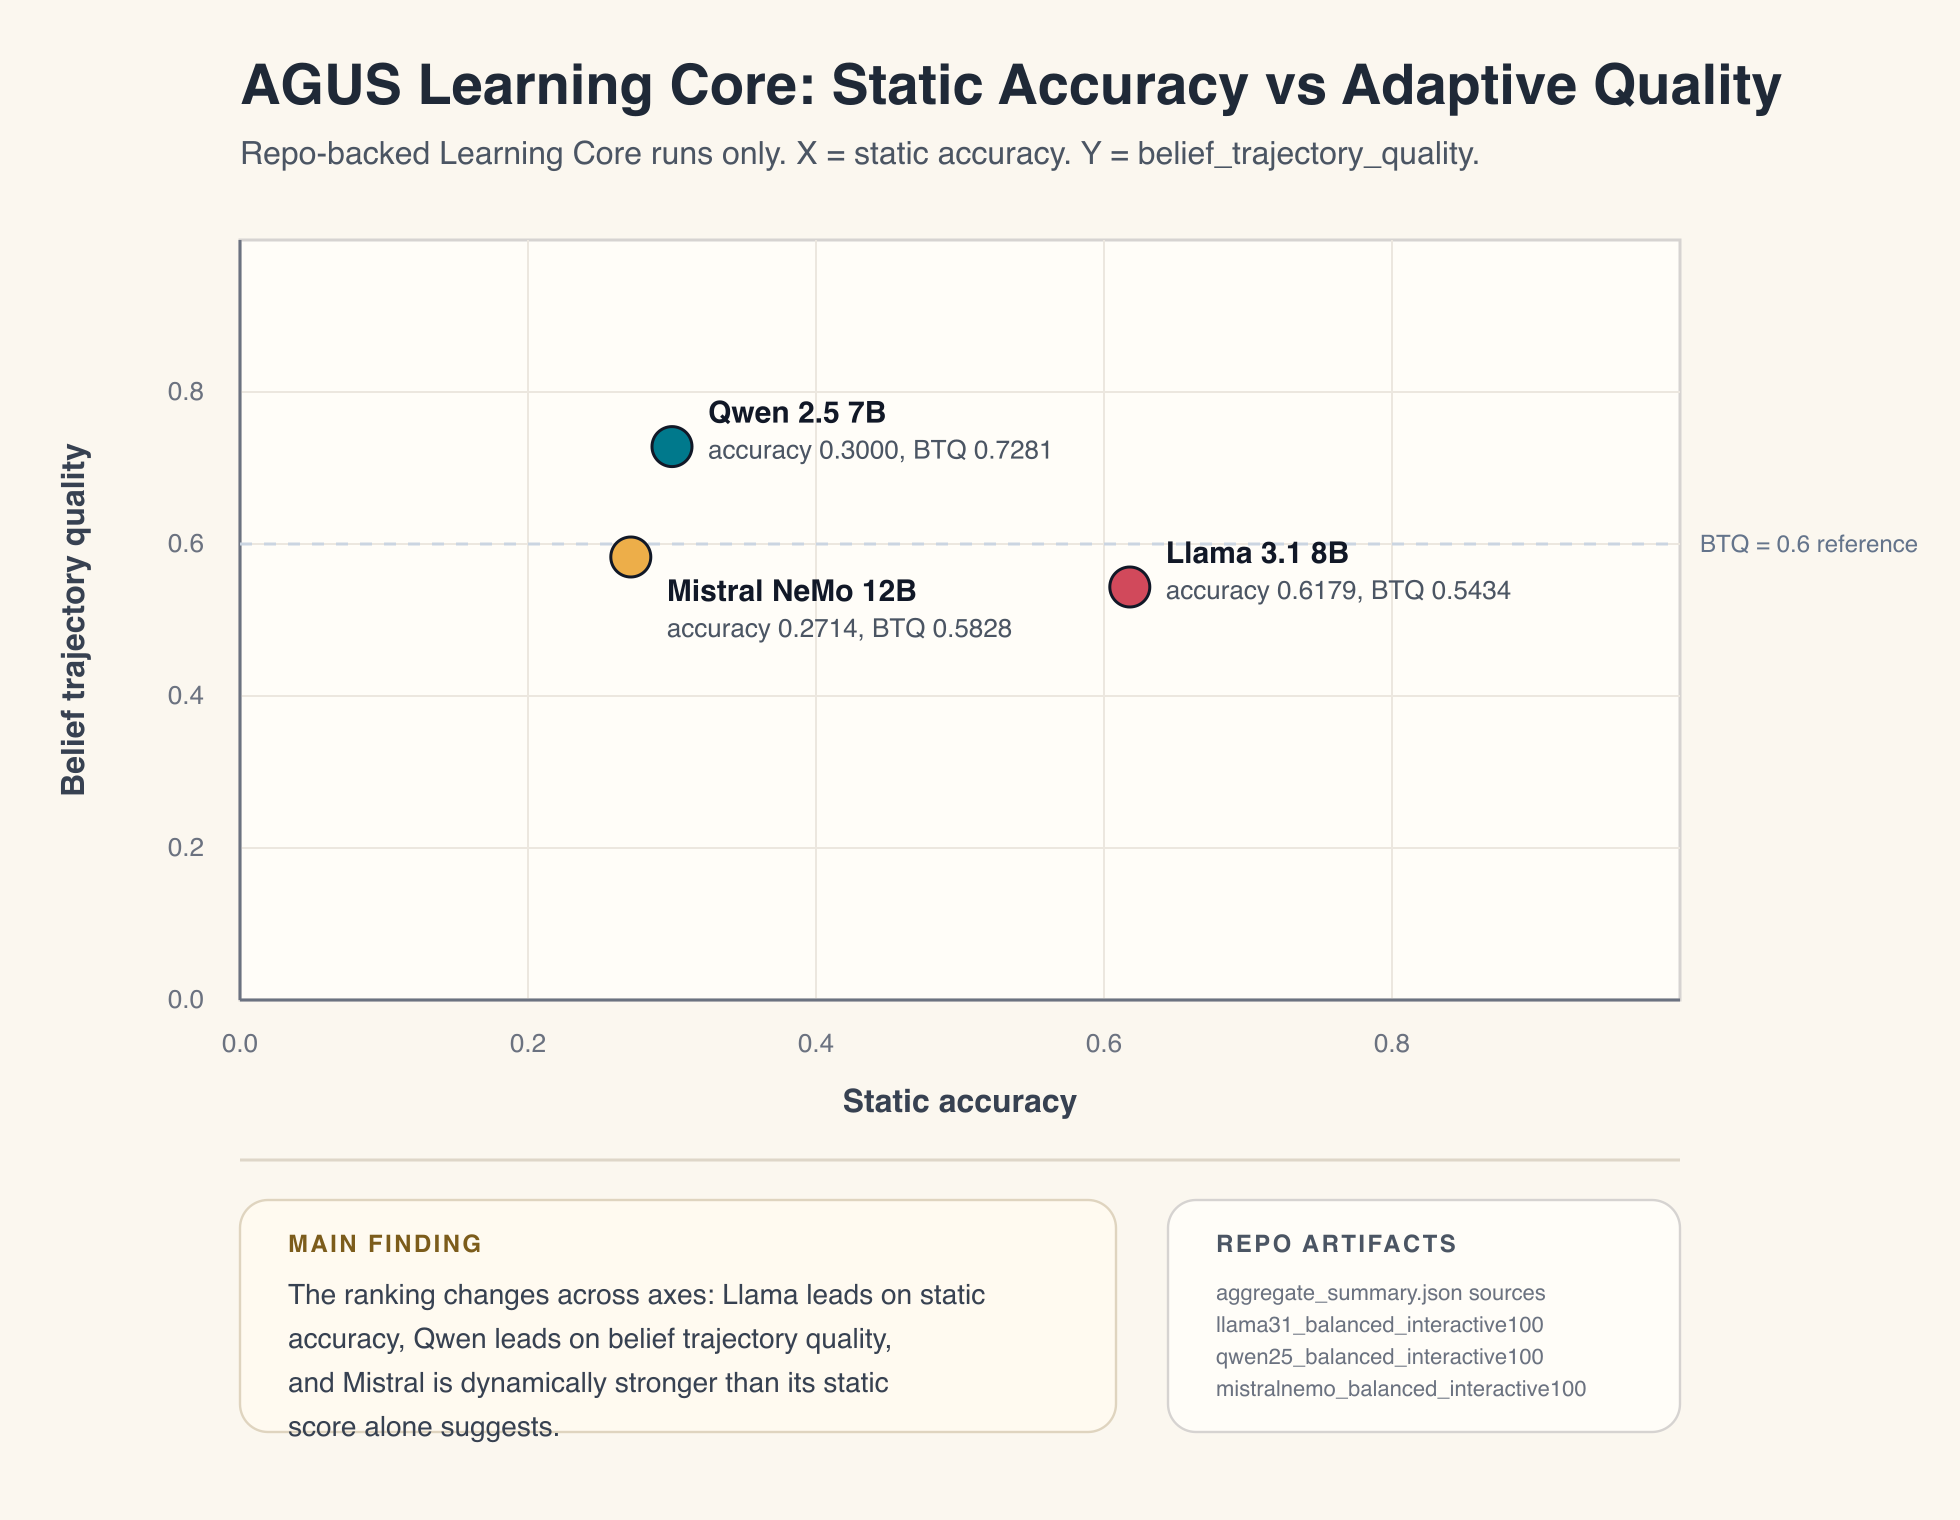
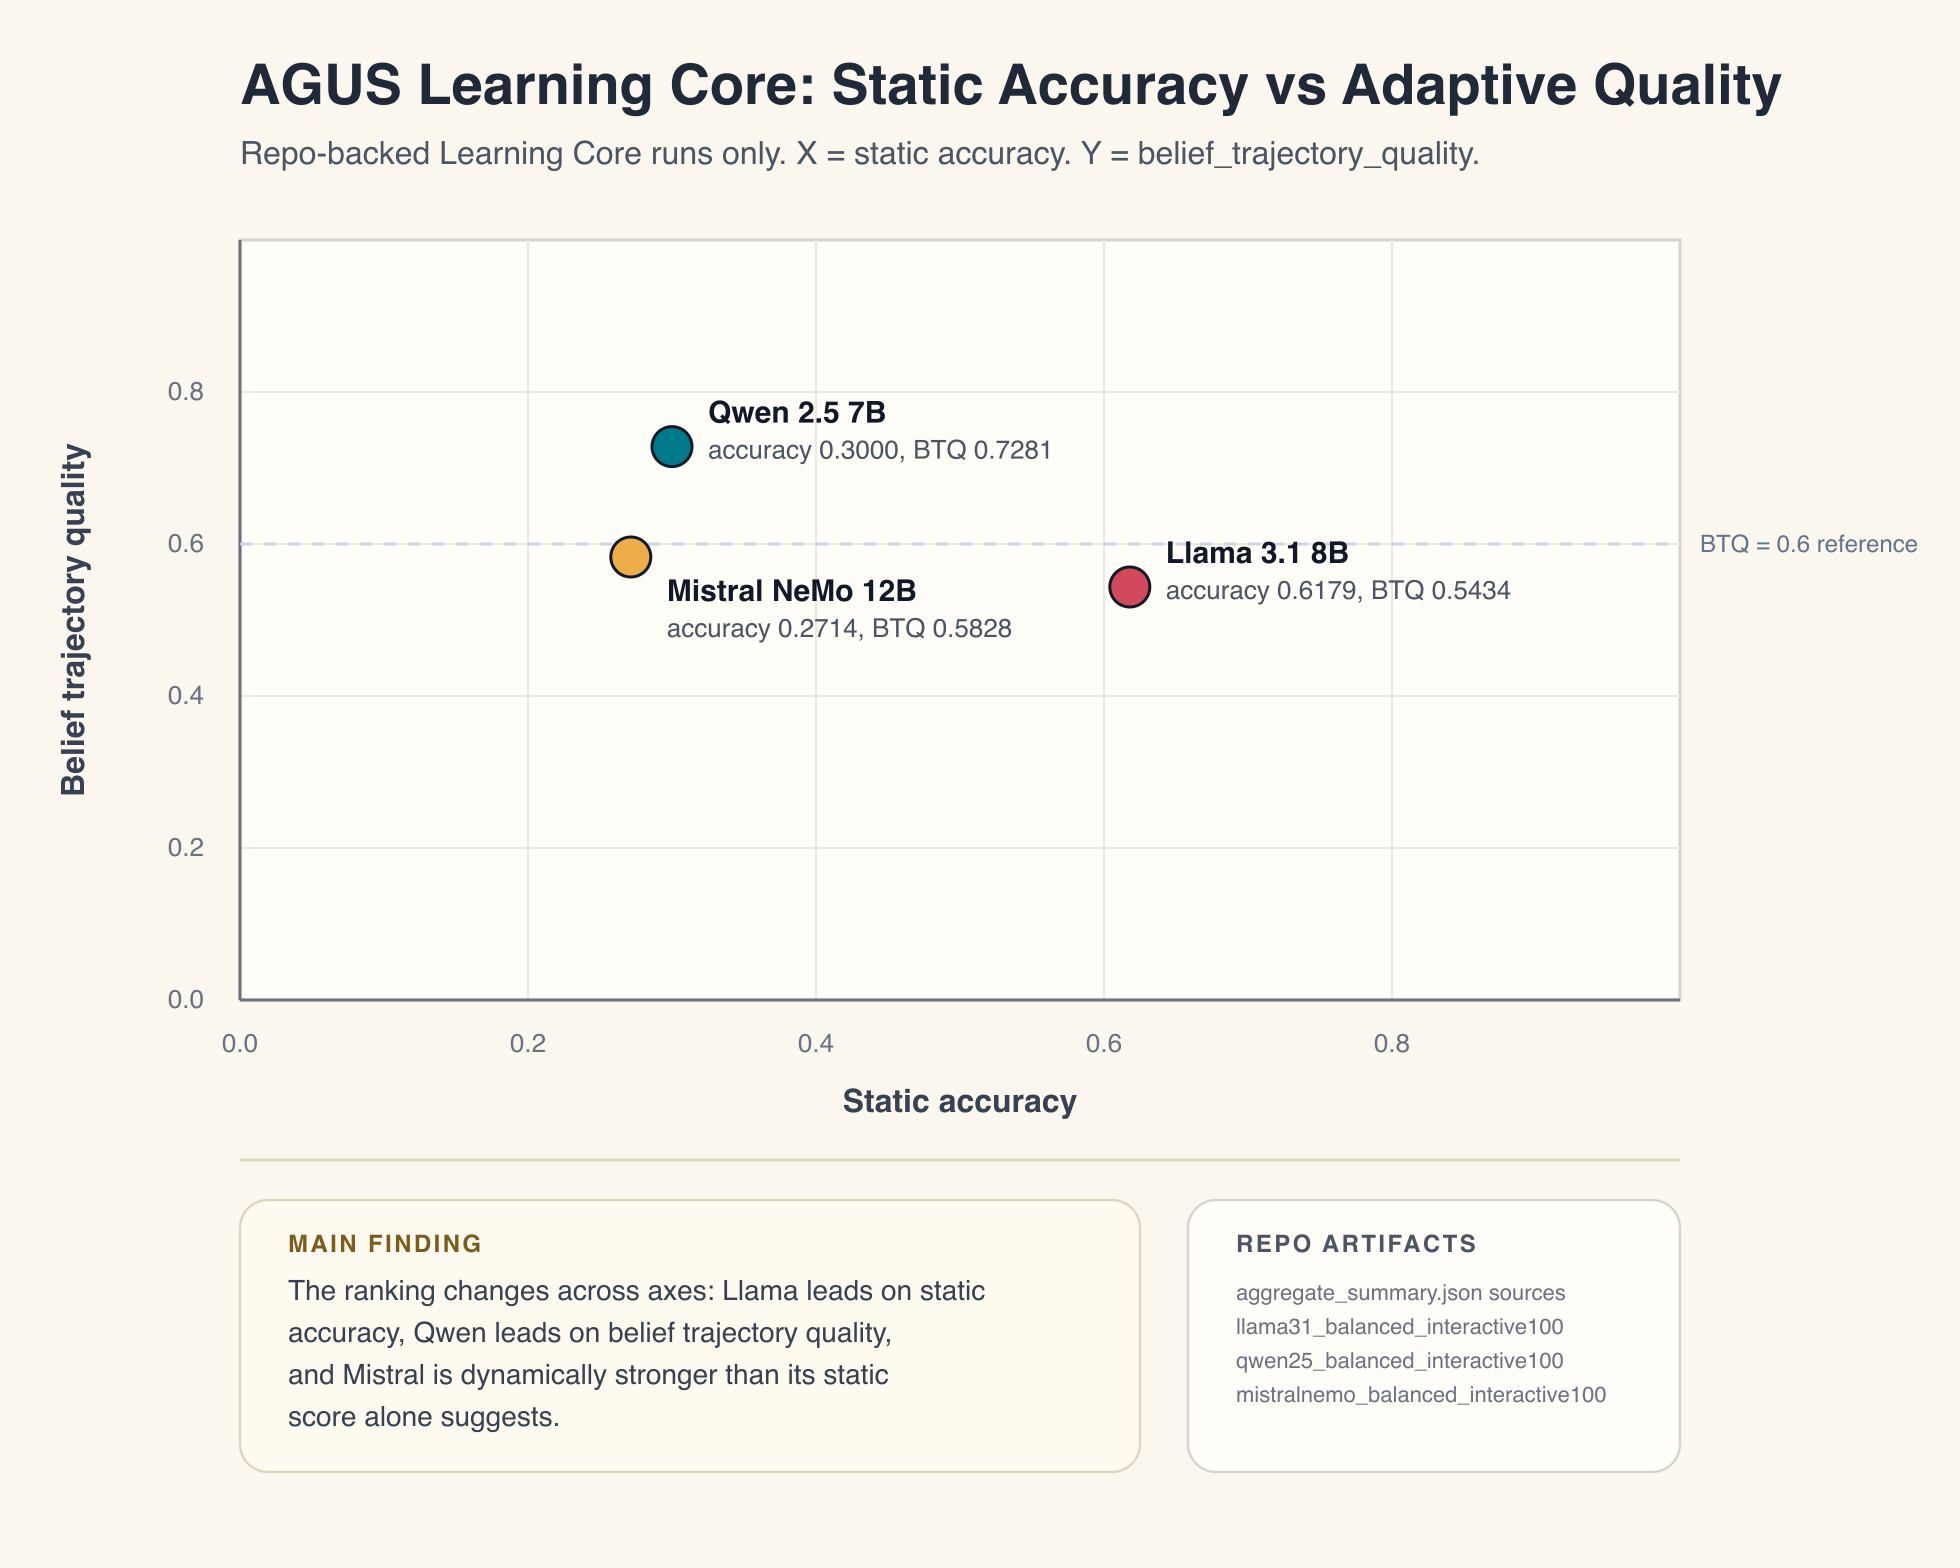
Fix hero figure footer spacing

diff --git a/docs/submission/generate_static_vs_adaptive_figure.py b/docs/submission/generate_static_vs_adaptive_figure.py
@@ -77,7 +77,7 @@ def add_multiline_text(
 
 def build_svg(points):
     width = 980
-    height = 760
+    height = 784
     plot_x = 120
     plot_y = 120
     plot_w = 720
@@ -152,7 +152,7 @@ def build_svg(points):
         '<line x1="120" y1="580" x2="840" y2="580" stroke="#ded6c8" stroke-width="1.5"/>'
     )
     parts.append(
-        '<rect x="120" y="600" width="438" height="116" rx="14" fill="#fffaf0" stroke="#dfd4bf" stroke-width="1.2"/>'
+        '<rect x="120" y="600" width="450" height="136" rx="14" fill="#fffaf0" stroke="#dfd4bf" stroke-width="1.2"/>'
     )
     parts.append(
         '<text x="144" y="626" font-family="Helvetica, Arial, sans-serif" font-size="12" font-weight="700" letter-spacing="1.2" fill="#7c5c1b">MAIN FINDING</text>'
@@ -160,7 +160,7 @@ def build_svg(points):
     add_multiline_text(
         parts,
         x=144,
-        y=652,
+        y=650,
         lines=[
             "The ranking changes across axes: Llama leads on static",
             "accuracy, Qwen leads on belief trajectory quality,",
@@ -169,13 +169,13 @@ def build_svg(points):
         ],
         font_size=14,
         fill="#374151",
-        line_height=22,
+        line_height=21,
     )
     parts.append(
-        '<rect x="584" y="600" width="256" height="116" rx="14" fill="#fffdf8" stroke="#d6d3d1" stroke-width="1.2"/>'
+        '<rect x="594" y="600" width="246" height="136" rx="14" fill="#fffdf8" stroke="#d6d3d1" stroke-width="1.2"/>'
     )
     parts.append(
-        '<text x="608" y="626" font-family="Helvetica, Arial, sans-serif" font-size="12" font-weight="700" letter-spacing="1.2" fill="#4b5563">REPO ARTIFACTS</text>'
+        '<text x="618" y="626" font-family="Helvetica, Arial, sans-serif" font-size="12" font-weight="700" letter-spacing="1.2" fill="#4b5563">REPO ARTIFACTS</text>'
     )
     source_lines = [
         "aggregate_summary.json sources",
@@ -185,12 +185,12 @@ def build_svg(points):
     ]
     add_multiline_text(
         parts,
-        x=608,
+        x=618,
         y=650,
         lines=source_lines,
         font_size=11,
         fill="#6b7280",
-        line_height=16,
+        line_height=17,
     )
     parts.append("</svg>")
 
